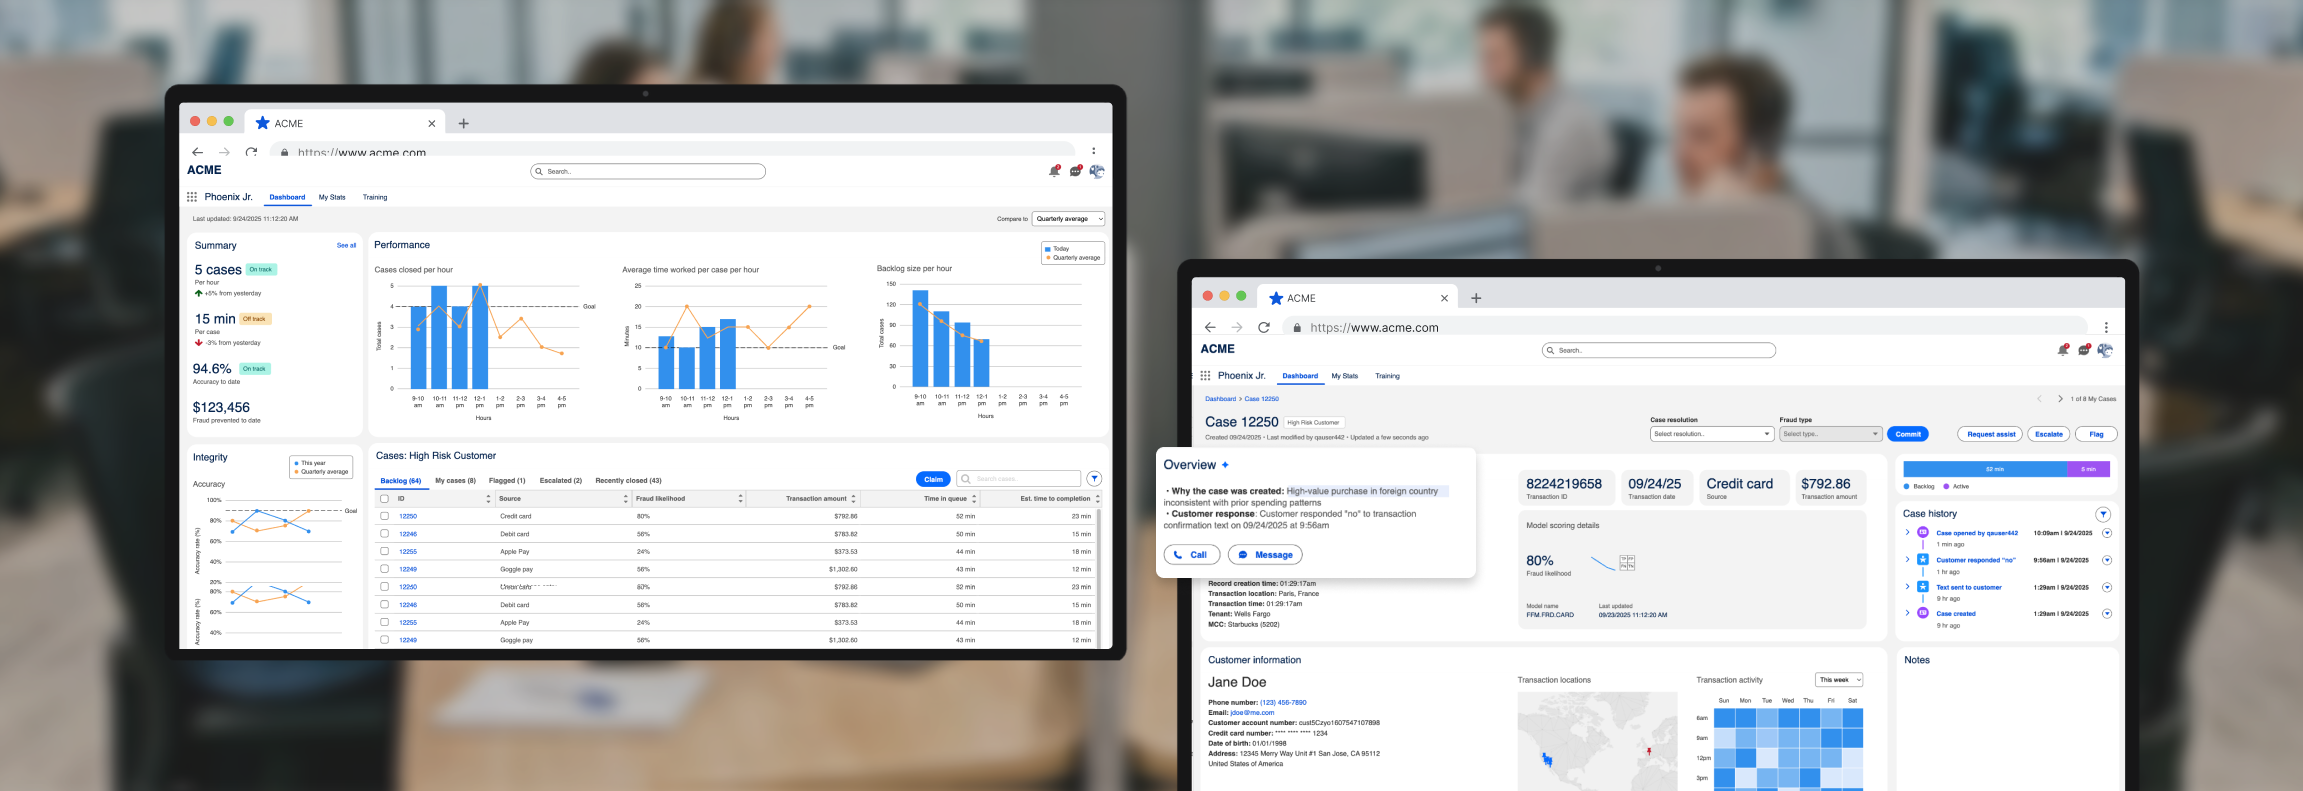
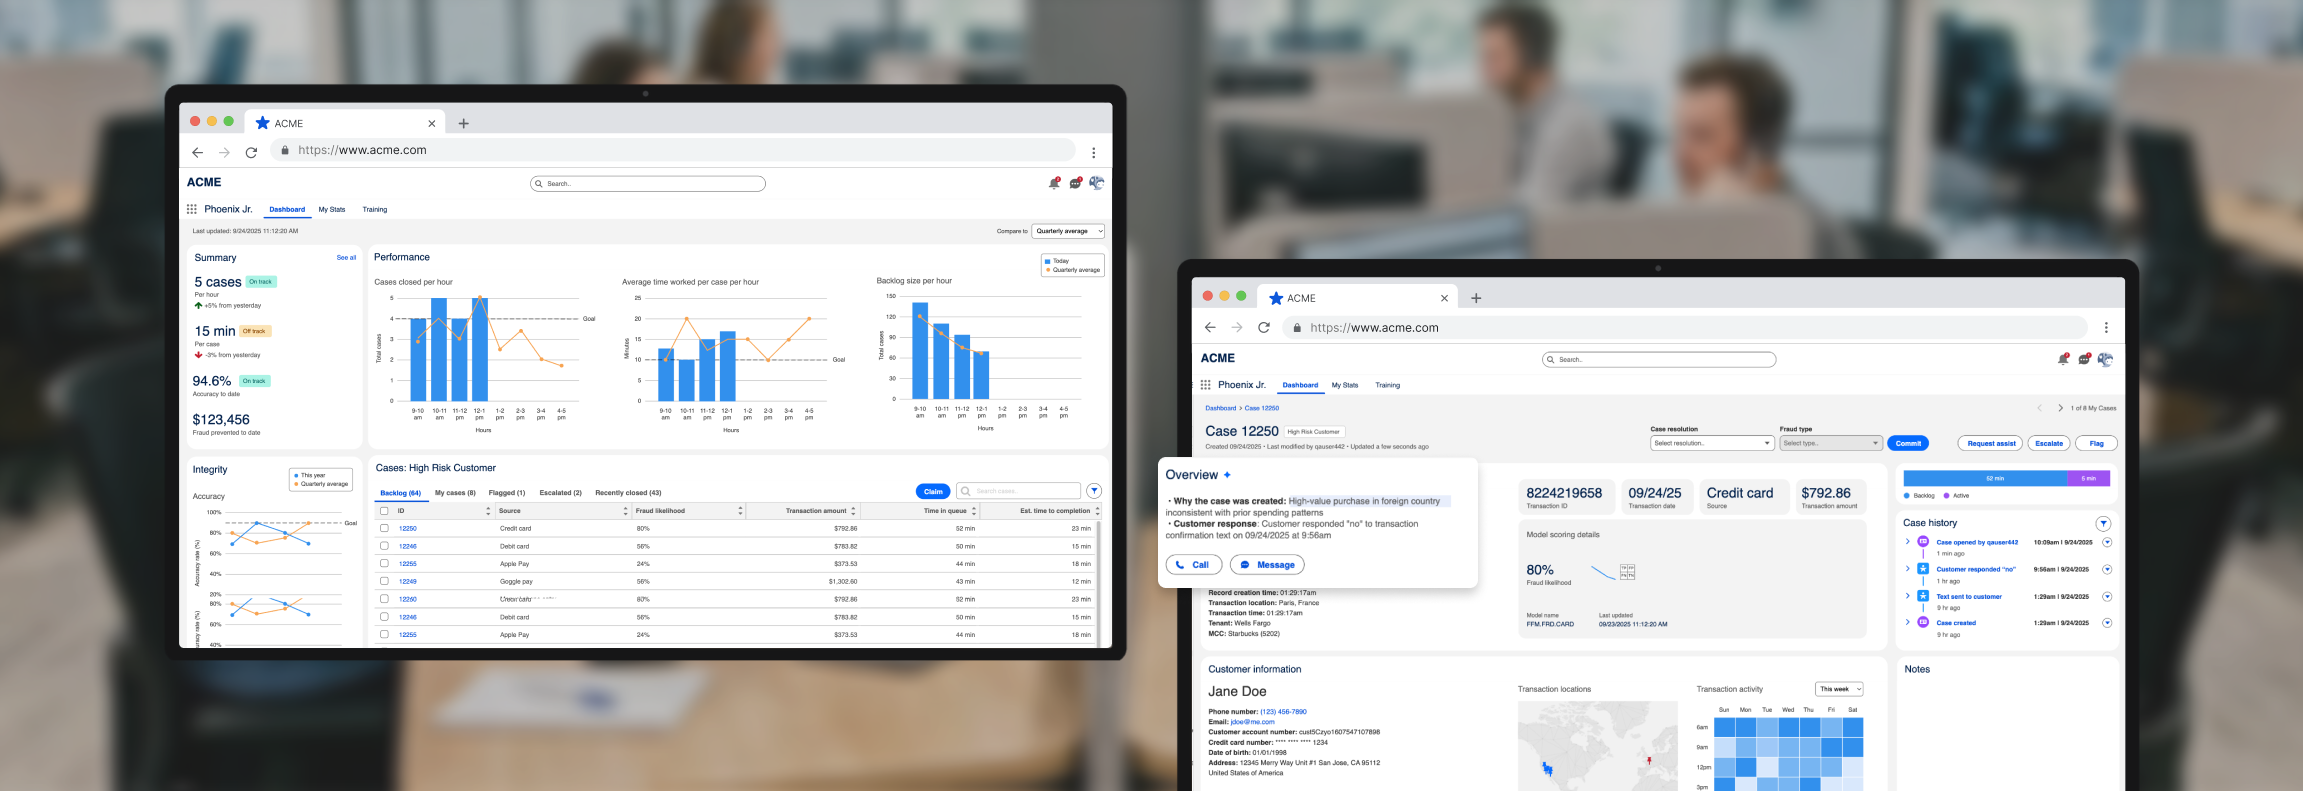
Add responsive styles for Acme and Goodmaps card images

diff --git a/src/app/page.tsx b/src/app/page.tsx
@@ -159,7 +159,7 @@ export default function HomePage() {
                 height={1329}
                 className={
                   project.background
-                    ? "project-item-image project-item-device"
+                    ? `project-item-image project-item-device${project.href === "/acme" ? " acme-card-device" : project.href === "/goodmaps" ? " gm-card-device" : ""}`
                     : "project-item-image"
                 }
               />

diff --git a/src/app/globals.css b/src/app/globals.css
@@ -1038,6 +1038,13 @@ img {
   object-fit: contain;
 }
 
+.acme-card-device,
+.gm-card-device {
+  width: 92% !important;
+  height: 92% !important;
+  margin: 4%;
+}
+
 .project-item:hover:not(:has(.home-dog-hotspot:hover, .home-dog-hit-path:hover)) .project-item-image,
 .project-item:has(.project-item-link:focus-visible) .project-item-image {
   transform: scale(1.04);
